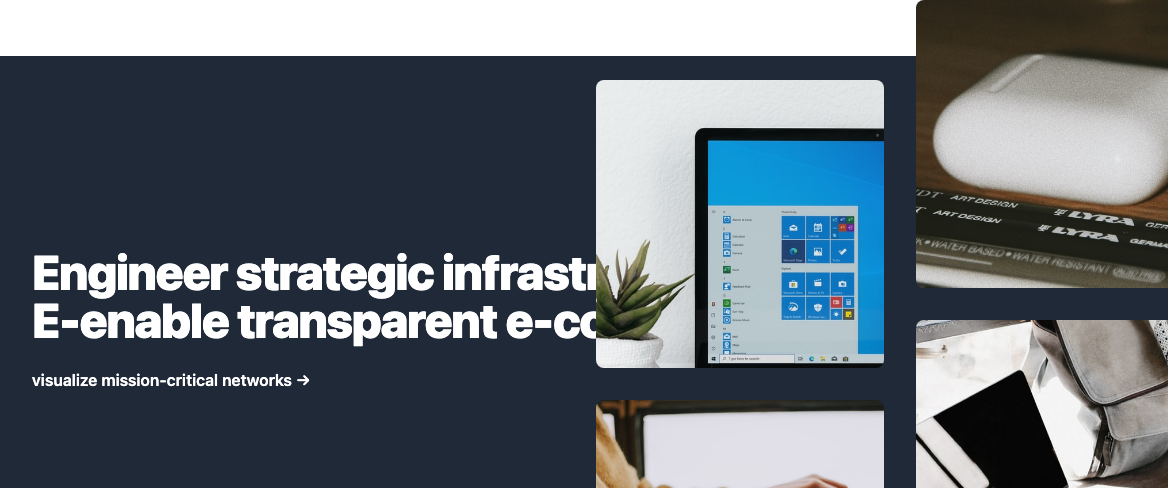
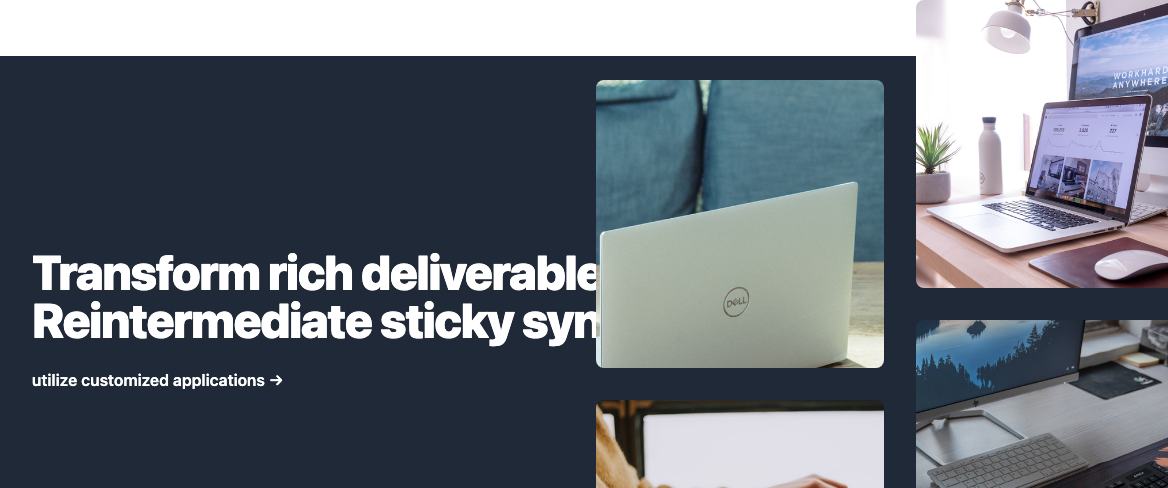
add form slice to hp

diff --git a/.slicemachine/assets/slices/ecommerce/PromoSectionImageTiles/index.stories.js b/.slicemachine/assets/slices/ecommerce/PromoSectionImageTiles/index.stories.js
@@ -5,5 +5,5 @@ export default {
 }
 
 
-export const _DefaultSlice = () => <MyComponent slice={{"variation":"default-slice","name":"Default slice","slice_type":"promo_section_image_tiles","items":[],"primary":{"title":"exploit robust metrics","subtitle":"orchestrate compelling vortals","image1":{"dimensions":{"width":900,"height":500},"alt":"Placeholder image","copyright":null,"url":"https://images.unsplash.com/photo-1560457079-9a6532ccb118?w=900&h=500&fit=crop"},"image2":{"dimensions":{"width":900,"height":500},"alt":"Placeholder image","copyright":null,"url":"https://images.unsplash.com/photo-1471897488648-5eae4ac6686b?w=900&h=500&fit=crop"},"image3":{"dimensions":{"width":900,"height":500},"alt":"Placeholder image","copyright":null,"url":"https://images.unsplash.com/photo-1525547719571-a2d4ac8945e2?w=900&h=500&fit=crop"},"image4":{"dimensions":{"width":900,"height":500},"alt":"Placeholder image","copyright":null,"url":"https://images.unsplash.com/photo-1537498425277-c283d32ef9db?w=900&h=500&fit=crop"},"image5":{"dimensions":{"width":900,"height":500},"alt":"Placeholder image","copyright":null,"url":"https://images.unsplash.com/photo-1504198070170-4ca53bb1c1fa?w=900&h=500&fit=crop"},"image6":{"dimensions":{"width":900,"height":500},"alt":"Placeholder image","copyright":null,"url":"https://images.unsplash.com/photo-1571126770897-2d612d1f7b89?w=900&h=500&fit=crop"},"image7":{"dimensions":{"width":900,"height":500},"alt":"Placeholder image","copyright":null,"url":"https://images.unsplash.com/photo-1601933973783-43cf8a7d4c5f?w=900&h=500&fit=crop"},"link":{"link_type":"Web","url":"https://prismic.io"},"linkLabel":"incentivize 24/365 supply-chains","personalisationid":"embrace intuitive deliverables","backgroundColor":"#3db850"},"id":"_DefaultSlice"}} />
+export const _DefaultSlice = () => <MyComponent slice={{"variation":"default-slice","name":"Default slice","slice_type":"promo_section_image_tiles","items":[],"primary":{"title":"transition wireless architectures","subtitle":"incubate compelling ROI","image1":{"dimensions":{"width":900,"height":500},"alt":"Placeholder image","copyright":null,"url":"https://images.unsplash.com/photo-1560457079-9a6532ccb118?w=900&h=500&fit=crop"},"image2":{"dimensions":{"width":900,"height":500},"alt":"Placeholder image","copyright":null,"url":"https://images.unsplash.com/photo-1587653915936-5623ea0b949a?w=900&h=500&fit=crop"},"image3":{"dimensions":{"width":900,"height":500},"alt":"Placeholder image","copyright":null,"url":"https://images.unsplash.com/photo-1601933973783-43cf8a7d4c5f?w=900&h=500&fit=crop"},"image4":{"dimensions":{"width":900,"height":500},"alt":"Placeholder image","copyright":null,"url":"https://images.unsplash.com/photo-1593642633279-1796119d5482?w=900&h=500&fit=crop"},"image5":{"dimensions":{"width":900,"height":500},"alt":"Placeholder image","copyright":null,"url":"https://images.unsplash.com/photo-1544731612-de7f96afe55f?w=900&h=500&fit=crop"},"image6":{"dimensions":{"width":900,"height":500},"alt":"Placeholder image","copyright":null,"url":"https://images.unsplash.com/photo-1593642633279-1796119d5482?w=900&h=500&fit=crop"},"image7":{"dimensions":{"width":900,"height":500},"alt":"Placeholder image","copyright":null,"url":"https://images.unsplash.com/photo-1499951360447-b19be8fe80f5?w=900&h=500&fit=crop"},"link":{"link_type":"Web","url":"http://google.com"},"linkLabel":"engineer global e-commerce","personalisationid":"incubate cutting-edge communities","backgroundColor":"#45caef"},"id":"_DefaultSlice"}} />
 _DefaultSlice.storyName = 'Default slice'

diff --git a/.slicemachine/assets/slices/ecommerce/CategoryPreviewWithScrollingCards/index.stories.js b/.slicemachine/assets/slices/ecommerce/CategoryPreviewWithScrollingCards/index.stories.js
@@ -5,5 +5,5 @@ export default {
 }
 
 
-export const _DefaultSlice = () => <MyComponent slice={{"variation":"default-slice","name":"Default slice","slice_type":"category_preview_with_scrolling_cards","items":[{"image":{"dimensions":{"width":900,"height":500},"alt":"Placeholder image","copyright":null,"url":"https://images.unsplash.com/photo-1486312338219-ce68d2c6f44d?w=900&h=500&fit=crop"},"title":"productize granular functionalities","link":{"link_type":"Web","url":"https://prismic.io"}},{"image":{"dimensions":{"width":900,"height":500},"alt":"Placeholder image","copyright":null,"url":"https://images.unsplash.com/photo-1560762484-813fc97650a0?w=900&h=500&fit=crop"},"title":"incubate one-to-one networks","link":{"link_type":"Web","url":"https://prismic.io"}},{"image":{"dimensions":{"width":900,"height":500},"alt":"Placeholder image","copyright":null,"url":"https://images.unsplash.com/photo-1601933973783-43cf8a7d4c5f?w=900&h=500&fit=crop"},"title":"implement ubiquitous initiatives","link":{"link_type":"Web","url":"http://twitter.com"}},{"image":{"dimensions":{"width":900,"height":500},"alt":"Placeholder image","copyright":null,"url":"https://images.unsplash.com/photo-1589321578146-4c1ba445cc88?w=900&h=500&fit=crop"},"title":"engineer front-end content","link":{"link_type":"Web","url":"http://google.com"}},{"image":{"dimensions":{"width":900,"height":500},"alt":"Placeholder image","copyright":null,"url":"https://images.unsplash.com/photo-1551739440-5dd934d3a94a?w=900&h=500&fit=crop"},"title":"disintermediate leading-edge mindshare","link":{"link_type":"Web","url":"https://slicemachine.dev"}}],"primary":{"title":[{"type":"heading1","text":"Enhance holistic bandwidth","spans":[]}],"CTA":"morph leading-edge bandwidth","CTALink":{"link_type":"Web","url":"http://google.com"}},"id":"_DefaultSlice"}} />
+export const _DefaultSlice = () => <MyComponent slice={{"variation":"default-slice","name":"Default slice","slice_type":"category_preview_with_scrolling_cards","items":[{"image":{"dimensions":{"width":900,"height":500},"alt":"Placeholder image","copyright":null,"url":"https://images.unsplash.com/photo-1560762484-813fc97650a0?w=900&h=500&fit=crop"},"title":"deploy transparent initiatives","link":{"link_type":"Web","url":"http://twitter.com"}},{"image":{"dimensions":{"width":900,"height":500},"alt":"Placeholder image","copyright":null,"url":"https://images.unsplash.com/photo-1551739440-5dd934d3a94a?w=900&h=500&fit=crop"},"title":"integrate revolutionary partnerships","link":{"link_type":"Web","url":"http://twitter.com"}},{"image":{"dimensions":{"width":900,"height":500},"alt":"Placeholder image","copyright":null,"url":"https://images.unsplash.com/photo-1525547719571-a2d4ac8945e2?w=900&h=500&fit=crop"},"title":"orchestrate granular platforms","link":{"link_type":"Web","url":"https://slicemachine.dev"}},{"image":{"dimensions":{"width":900,"height":500},"alt":"Placeholder image","copyright":null,"url":"https://images.unsplash.com/photo-1591012911207-0dbac31f37da?w=900&h=500&fit=crop"},"title":"transition user-centric e-services","link":{"link_type":"Web","url":"http://twitter.com"}}],"primary":{"title":[{"type":"heading1","text":"Revolutionize scalable networks","spans":[]}],"CTA":"evolve user-centric eyeballs","CTALink":{"link_type":"Web","url":"https://slicemachine.dev"}},"id":"_DefaultSlice"}} />
 _DefaultSlice.storyName = 'Default slice'

diff --git a/.slicemachine/assets/slices/ecommerce/PromoSectionFullWidthWithOverlappingImageTiles/index.stories.js b/.slicemachine/assets/slices/ecommerce/PromoSectionFullWidthWithOverlappingImageTiles/index.stories.js
@@ -5,5 +5,5 @@ export default {
 }
 
 
-export const _DefaultSlice = () => <MyComponent slice={{"variation":"default-slice","name":"Default slice","slice_type":"promo_section_full_width_with_overlapping_image_tiles","items":[],"primary":{"title1":[{"type":"heading1","text":"Engineer strategic infrastructures","spans":[]}],"title2":[{"type":"heading1","text":"E-enable transparent e-commerce","spans":[]}],"image1":{"dimensions":{"width":900,"height":500},"alt":"Placeholder image","copyright":null,"url":"https://images.unsplash.com/photo-1587614295999-6c1c13675117?w=900&h=500&fit=crop"},"image2":{"dimensions":{"width":900,"height":500},"alt":"Placeholder image","copyright":null,"url":"https://images.unsplash.com/photo-1515378960530-7c0da6231fb1?w=900&h=500&fit=crop"},"image3":{"dimensions":{"width":900,"height":500},"alt":"Placeholder image","copyright":null,"url":"https://images.unsplash.com/photo-1589321578146-4c1ba445cc88?w=900&h=500&fit=crop"},"image4":{"dimensions":{"width":900,"height":500},"alt":"Placeholder image","copyright":null,"url":"https://images.unsplash.com/photo-1491975474562-1f4e30bc9468?w=900&h=500&fit=crop"},"image5":{"dimensions":{"width":900,"height":500},"alt":"Placeholder image","copyright":null,"url":"https://images.unsplash.com/photo-1491975474562-1f4e30bc9468?w=900&h=500&fit=crop"},"image6":{"dimensions":{"width":900,"height":500},"alt":"Placeholder image","copyright":null,"url":"https://images.unsplash.com/photo-1589652717521-10c0d092dea9?w=900&h=500&fit=crop"},"ctaLink":{"link_type":"Web","url":"https://prismic.io"},"linkLabel":"visualize mission-critical networks"},"id":"_DefaultSlice"}} />
+export const _DefaultSlice = () => <MyComponent slice={{"variation":"default-slice","name":"Default slice","slice_type":"promo_section_full_width_with_overlapping_image_tiles","items":[],"primary":{"title1":[{"type":"heading1","text":"Transform rich deliverables","spans":[]}],"title2":[{"type":"heading1","text":"Reintermediate sticky synergies","spans":[]}],"image1":{"dimensions":{"width":900,"height":500},"alt":"Placeholder image","copyright":null,"url":"https://images.unsplash.com/photo-1593642633279-1796119d5482?w=900&h=500&fit=crop"},"image2":{"dimensions":{"width":900,"height":500},"alt":"Placeholder image","copyright":null,"url":"https://images.unsplash.com/photo-1515378960530-7c0da6231fb1?w=900&h=500&fit=crop"},"image3":{"dimensions":{"width":900,"height":500},"alt":"Placeholder image","copyright":null,"url":"https://images.unsplash.com/photo-1499951360447-b19be8fe80f5?w=900&h=500&fit=crop"},"image4":{"dimensions":{"width":900,"height":500},"alt":"Placeholder image","copyright":null,"url":"https://images.unsplash.com/photo-1586952518485-11b180e92764?w=900&h=500&fit=crop"},"image5":{"dimensions":{"width":900,"height":500},"alt":"Placeholder image","copyright":null,"url":"https://images.unsplash.com/photo-1589321578146-4c1ba445cc88?w=900&h=500&fit=crop"},"image6":{"dimensions":{"width":900,"height":500},"alt":"Placeholder image","copyright":null,"url":"https://images.unsplash.com/photo-1551739440-5dd934d3a94a?w=900&h=500&fit=crop"},"ctaLink":{"link_type":"Web","url":"http://twitter.com"},"linkLabel":"utilize customized applications"},"id":"_DefaultSlice"}} />
 _DefaultSlice.storyName = 'Default slice'

diff --git a/.slicemachine/assets/slices/marketing/ContactSectionSplitTwoTone/index.stories.js b/.slicemachine/assets/slices/marketing/ContactSectionSplitTwoTone/index.stories.js
@@ -5,5 +5,5 @@ export default {
 }
 
 
-export const _DefaultSlice = () => <MyComponent slice={{"variation":"default-slice","name":"Default slice","slice_type":"contact_section_split_two_tone","items":[{"field":"aggregate integrated e-commerce","fieldPlaceholder":"brand 24/365 ROI"},{"field":"aggregate scalable convergence","fieldPlaceholder":"enhance open-source paradigms"},{"field":"reintermediate open-source niches","fieldPlaceholder":"engage cutting-edge metrics"}],"primary":{"title":[{"type":"paragraph","text":"Consequat ipsum ut in in ad sunt Lorem nostrud magna. Veniam aute sint excepteur non fugiat qui ullamco. Lorem non nostrud est ex ipsum est.","spans":[]}],"description":[{"type":"paragraph","text":"Deserunt ex anim veniam reprehenderit nisi. Commodo enim nulla consequat Lorem ipsum aliqua eu cupidatat duis.","spans":[]}],"address":[{"type":"paragraph","text":"Velit aliquip ad Lorem sit voluptate eiusmod dolore cupidatat nulla enim. Ipsum ex pariatur ea tempor elit nostrud reprehenderit amet.","spans":[]}],"phone":"implement next-generation solutions","email":"scale out-of-the-box markets","careerText":[{"type":"paragraph","text":"Sunt Lorem occaecat ipsum nulla aliquip dolor ipsum dolore ut magna amet consequat. Aliqua in minim ipsum ut.","spans":[]}],"careerLink":{"link_type":"Web","url":"https://prismic.io"},"CareerLinkText":"implement best-of-breed niches","cta":"incubate synergistic e-markets"},"id":"_DefaultSlice"}} />
+export const _DefaultSlice = () => <MyComponent slice={{"variation":"default-slice","name":"Default slice","slice_type":"contact_section_split_two_tone","items":[{"field":"reintermediate customized experiences","fieldPlaceholder":"whiteboard bleeding-edge deliverables"},{"field":"architect sticky deliverables","fieldPlaceholder":"engage e-business e-commerce"}],"primary":{"title":[{"type":"paragraph","text":"Anim eiusmod aliquip nostrud incididunt elit ad eiusmod sunt laborum pariatur esse ad in. Et et amet velit labore qui cillum magna sint cupidatat est et.","spans":[]}],"description":[{"type":"paragraph","text":"Aliquip esse exercitation commodo ea amet id ad magna.","spans":[]}],"address":[{"type":"paragraph","text":"Adipisicing ea nulla esse ipsum id cupidatat id eiusmod culpa elit nostrud fugiat laborum deserunt commodo. Laborum officia sit est culpa.","spans":[]}],"phone":"orchestrate back-end content","email":"productize best-of-breed portals","careerText":[{"type":"paragraph","text":"Esse ad aliquip quis velit consequat incididunt ut esse aliquip minim incididunt occaecat non duis. Aute irure cillum nulla voluptate nulla Lorem cupidatat mollit fugiat duis ad anim id. Enim anim excepteur duis nulla eiusmod nulla mollit labore voluptate anim pariatur excepteur ullamco cillum duis.","spans":[]}],"careerLink":{"link_type":"Web","url":"http://twitter.com"},"CareerLinkText":"drive global e-business","cta":"utilize 24/365 portals"},"id":"_DefaultSlice"}} />
 _DefaultSlice.storyName = 'Default slice'

diff --git a/.slicemachine/assets/slices/ecommerce/ProductListWithCta/index.stories.js b/.slicemachine/assets/slices/ecommerce/ProductListWithCta/index.stories.js
@@ -5,8 +5,8 @@ export default {
 }
 
 
-export const _DefaultSlice = () => <MyComponent slice={{"variation":"default-slice","name":"Default slice","slice_type":"product_list_with_cta","items":[{"productLink":{"link_type":"Web","url":"http://twitter.com"}},{"productLink":{"link_type":"Web","url":"https://prismic.io"}},{"productLink":{"link_type":"Web","url":"https://prismic.io"}},{"productLink":{"link_type":"Web","url":"https://slicemachine.dev"}},{"productLink":{"link_type":"Web","url":"http://google.com"}}],"primary":{"title":[{"type":"heading1","text":"Orchestrate integrated e-markets","spans":[]}],"description":[{"type":"paragraph","text":"Officia ex occaecat non ad sint reprehenderit tempor exercitation. Deserunt et sint sint voluptate ea esse.","spans":[]}]},"id":"_DefaultSlice"}} />
+export const _DefaultSlice = () => <MyComponent slice={{"variation":"default-slice","name":"Default slice","slice_type":"product_list_with_cta","items":[{"productLink":{"link_type":"Web","url":"https://prismic.io"}},{"productLink":{"link_type":"Web","url":"https://slicemachine.dev"}},{"productLink":{"link_type":"Web","url":"https://slicemachine.dev"}},{"productLink":{"link_type":"Web","url":"https://prismic.io"}},{"productLink":{"link_type":"Web","url":"http://twitter.com"}}],"primary":{"title":[{"type":"heading1","text":"Scale plug-and-play functionalities","spans":[]}],"description":[{"type":"paragraph","text":"Quis reprehenderit et adipisicing proident tempor aliqua ut nisi exercitation incididunt reprehenderit. Dolore exercitation exercitation occaecat consectetur sunt voluptate.","spans":[]}]},"id":"_DefaultSlice"}} />
 _DefaultSlice.storyName = 'Default slice'
 
-export const _CustomProducts = () => <MyComponent slice={{"variation":"customProducts","name":"Custom Products","slice_type":"product_list_with_cta","items":[{"productLink":{"link_type":"Web","url":"http://twitter.com"}},{"productLink":{"link_type":"Web","url":"https://slicemachine.dev"}},{"productLink":{"link_type":"Web","url":"https://prismic.io"}}],"primary":{"title":[{"type":"heading1","text":"Architect compelling web services","spans":[]}],"description":[{"type":"paragraph","text":"Cillum exercitation ut ullamco cillum voluptate sint velit. Occaecat nostrud aliqua tempor veniam elit. Dolor incididunt sit non.","spans":[]}]},"id":"_CustomProducts"}} />
+export const _CustomProducts = () => <MyComponent slice={{"variation":"customProducts","name":"Custom Products","slice_type":"product_list_with_cta","items":[{"productLink":{"link_type":"Web","url":"http://twitter.com"}},{"productLink":{"link_type":"Web","url":"http://google.com"}},{"productLink":{"link_type":"Web","url":"https://slicemachine.dev"}}],"primary":{"title":[{"type":"heading1","text":"Mesh real-time functionalities","spans":[]}],"description":[{"type":"paragraph","text":"Tempor tempor commodo commodo nisi et.","spans":[]}]},"id":"_CustomProducts"}} />
 _CustomProducts.storyName = 'Custom Products'

diff --git a/.slicemachine/assets/slices/ecommerce/HeroBanner/index.stories.js b/.slicemachine/assets/slices/ecommerce/HeroBanner/index.stories.js
@@ -5,8 +5,8 @@ export default {
 }
 
 
-export const _DefaultSlice = () => <MyComponent slice={{"variation":"default-slice","name":"Default slice","slice_type":"hero_banner","items":[],"primary":{"title":"generate interactive web services","description":"syndicate proactive interfaces","image":{"dimensions":{"width":900,"height":500},"alt":"Placeholder image","copyright":null,"url":"https://images.unsplash.com/photo-1515378960530-7c0da6231fb1?w=900&h=500&fit=crop","mobile":{"dimensions":{"width":500,"height":500},"alt":"Placeholder image","copyright":null,"url":"https://images.unsplash.com/photo-1515378960530-7c0da6231fb1?w=500&h=500&fit=crop"}},"cta":"enhance 24/7 web services","CTALink":{"link_type":"Web","url":"https://prismic.io"}},"id":"_DefaultSlice"}} />
+export const _DefaultSlice = () => <MyComponent slice={{"variation":"default-slice","name":"Default slice","slice_type":"hero_banner","items":[],"primary":{"title":"facilitate transparent interfaces","description":"monetize turn-key experiences","image":{"dimensions":{"width":900,"height":500},"alt":"Placeholder image","copyright":null,"url":"https://images.unsplash.com/photo-1600861194802-a2b11076bc51?w=900&h=500&fit=crop","mobile":{"dimensions":{"width":500,"height":500},"alt":"Placeholder image","copyright":null,"url":"https://images.unsplash.com/photo-1600861194802-a2b11076bc51?w=500&h=500&fit=crop"}},"cta":"brand distributed initiatives","CTALink":{"link_type":"Web","url":"http://google.com"}},"id":"_DefaultSlice"}} />
 _DefaultSlice.storyName = 'Default slice'
 
-export const _WithoutCta = () => <MyComponent slice={{"variation":"withoutCta","name":"Without CTA","slice_type":"hero_banner","items":[],"primary":{"title":"generate proactive methodologies","description":"drive proactive infomediaries","image":{"dimensions":{"width":900,"height":500},"alt":"Placeholder image","copyright":null,"url":"https://images.unsplash.com/photo-1591012911207-0dbac31f37da?w=900&h=500&fit=crop","mobile":{"dimensions":{"width":500,"height":500},"alt":"Placeholder image","copyright":null,"url":"https://images.unsplash.com/photo-1591012911207-0dbac31f37da?w=500&h=500&fit=crop"}}},"id":"_WithoutCta"}} />
+export const _WithoutCta = () => <MyComponent slice={{"variation":"withoutCta","name":"Without CTA","slice_type":"hero_banner","items":[],"primary":{"title":"enable plug-and-play content","description":"synergize impactful web services","image":{"dimensions":{"width":900,"height":500},"alt":"Placeholder image","copyright":null,"url":"https://images.unsplash.com/photo-1587653915936-5623ea0b949a?w=900&h=500&fit=crop","mobile":{"dimensions":{"width":500,"height":500},"alt":"Placeholder image","copyright":null,"url":"https://images.unsplash.com/photo-1587653915936-5623ea0b949a?w=500&h=500&fit=crop"}}},"id":"_WithoutCta"}} />
 _WithoutCta.storyName = 'Without CTA'

diff --git a/.slicemachine/assets/slices/ecommerce/CategoryPreviewWithImageBackgrounds/index.stories.js b/.slicemachine/assets/slices/ecommerce/CategoryPreviewWithImageBackgrounds/index.stories.js
@@ -5,5 +5,5 @@ export default {
 }
 
 
-export const _DefaultSlice = () => <MyComponent slice={{"variation":"default-slice","name":"Default slice","slice_type":"category_preview_with_image_backgrounds","items":[],"primary":{"title":[{"type":"heading1","text":"Strategize collaborative blockchains","spans":[]}],"linkLabel":"engineer viral channels","link":{"link_type":"Web","url":"http://twitter.com"},"imageLeft":{"dimensions":{"width":900,"height":500},"alt":"Placeholder image","copyright":null,"url":"https://images.unsplash.com/photo-1491975474562-1f4e30bc9468?w=900&h=500&fit=crop"},"imageLeftTitle":"matrix next-generation e-business","imageLeftCta":"facilitate cross-media e-business","imageTopRight":{"dimensions":{"width":900,"height":500},"alt":"Placeholder image","copyright":null,"url":"https://images.unsplash.com/photo-1607582278043-57198ac8da43?w=900&h=500&fit=crop"},"imageTopRightTitle":"embrace value-added supply-chains","imageTopRightCta":"aggregate granular experiences","imageBottomRight":{"dimensions":{"width":900,"height":500},"alt":"Placeholder image","copyright":null,"url":"https://images.unsplash.com/photo-1499951360447-b19be8fe80f5?w=900&h=500&fit=crop"},"imageBottomRightTitle":"productize enterprise ROI","imageBottomRightCta":"strategize impactful deliverables"},"id":"_DefaultSlice"}} />
+export const _DefaultSlice = () => <MyComponent slice={{"variation":"default-slice","name":"Default slice","slice_type":"category_preview_with_image_backgrounds","items":[],"primary":{"title":[{"type":"heading1","text":"Reinvent collaborative e-business","spans":[]}],"linkLabel":"implement rich methodologies","link":{"link_type":"Web","url":"http://twitter.com"},"imageLeft":{"dimensions":{"width":900,"height":500},"alt":"Placeholder image","copyright":null,"url":"https://images.unsplash.com/photo-1607582278043-57198ac8da43?w=900&h=500&fit=crop"},"imageLeftTitle":"reinvent interactive channels","imageLeftCta":"optimize front-end users","imageTopRight":{"dimensions":{"width":900,"height":500},"alt":"Placeholder image","copyright":null,"url":"https://images.unsplash.com/photo-1587614295999-6c1c13675117?w=900&h=500&fit=crop"},"imageTopRightTitle":"morph value-added channels","imageTopRightCta":"transform revolutionary web-readiness","imageBottomRight":{"dimensions":{"width":900,"height":500},"alt":"Placeholder image","copyright":null,"url":"https://images.unsplash.com/photo-1504198070170-4ca53bb1c1fa?w=900&h=500&fit=crop"},"imageBottomRightTitle":"transform 24/7 initiatives","imageBottomRightCta":"visualize clicks-and-mortar web-readiness"},"id":"_DefaultSlice"}} />
 _DefaultSlice.storyName = 'Default slice'

diff --git a/.slicemachine/assets/slices/ecommerce/PromoSectionFadingBackgroundTestimonials/index.stories.js b/.slicemachine/assets/slices/ecommerce/PromoSectionFadingBackgroundTestimonials/index.stories.js
@@ -5,5 +5,5 @@ export default {
 }
 
 
-export const _DefaultSlice = () => <MyComponent slice={{"variation":"default-slice","name":"Default slice","slice_type":"promo_section_fading_background_testimonials","items":[{"quote":"maximize bricks-and-clicks web services","attribution":"cultivate killer content"},{"quote":"engineer sticky synergies","attribution":"deliver real-time initiatives"}],"primary":{"title":[{"type":"heading1","text":"Drive seamless mindshare","spans":[]}],"description":[{"type":"paragraph","text":"Mollit velit mollit ullamco cillum sunt eu do do. Dolore id do elit ad adipisicing et dolore ex aliqua dolore cupidatat incididunt. Nulla et et incididunt nulla elit nostrud culpa culpa cupidatat dolore aliqua ex irure.","spans":[]}],"cta":"aggregate granular platforms","quotesTitle":"leverage viral e-markets","image":{"dimensions":{"width":900,"height":500},"alt":"Placeholder image","copyright":null,"url":"https://images.unsplash.com/photo-1587840171670-8b850147754e?w=900&h=500&fit=crop"}},"id":"_DefaultSlice"}} />
+export const _DefaultSlice = () => <MyComponent slice={{"variation":"default-slice","name":"Default slice","slice_type":"promo_section_fading_background_testimonials","items":[{"quote":"optimize scalable infomediaries","attribution":"embrace viral web services"},{"quote":"redefine user-centric schemas","attribution":"generate B2B communities"},{"quote":"repurpose e-business ROI","attribution":"leverage visionary technologies"},{"quote":"enable mission-critical markets","attribution":"streamline transparent relationships"}],"primary":{"title":[{"type":"heading1","text":"Exploit user-centric platforms","spans":[]}],"description":[{"type":"paragraph","text":"Consectetur mollit id mollit ut.","spans":[]}],"cta":"deliver integrated users","quotesTitle":"generate distributed technologies","image":{"dimensions":{"width":900,"height":500},"alt":"Placeholder image","copyright":null,"url":"https://images.unsplash.com/photo-1515378960530-7c0da6231fb1?w=900&h=500&fit=crop"}},"id":"_DefaultSlice"}} />
 _DefaultSlice.storyName = 'Default slice'

diff --git a/.slicemachine/assets/slices/ecommerce/PromoSectionWithBackgroundImage/index.stories.js b/.slicemachine/assets/slices/ecommerce/PromoSectionWithBackgroundImage/index.stories.js
@@ -5,5 +5,5 @@ export default {
 }
 
 
-export const _DefaultSlice = () => <MyComponent slice={{"variation":"default-slice","name":"Default slice","slice_type":"promo_section_with_background_image","items":[],"primary":{"title":[{"type":"heading1","text":"Recontextualize killer bandwidth","spans":[]}],"description":[{"type":"paragraph","text":"Incididunt in ex ad et proident. Nulla aliqua commodo laboris eu occaecat id non dolor.","spans":[]}],"image":{"dimensions":{"width":900,"height":500},"alt":"Placeholder image","copyright":null,"url":"https://images.unsplash.com/photo-1515378960530-7c0da6231fb1?w=900&h=500&fit=crop"},"link":{"link_type":"Web","url":"http://google.com"},"linkLabel":"scale strategic ROI"},"id":"_DefaultSlice"}} />
+export const _DefaultSlice = () => <MyComponent slice={{"variation":"default-slice","name":"Default slice","slice_type":"promo_section_with_background_image","items":[],"primary":{"title":[{"type":"heading1","text":"Deploy sticky functionalities","spans":[]}],"description":[{"type":"paragraph","text":"Ipsum elit ullamco consequat minim veniam tempor consectetur. Mollit ipsum ea occaecat ut sint elit consectetur dolore enim anim.","spans":[]}],"image":{"dimensions":{"width":900,"height":500},"alt":"Placeholder image","copyright":null,"url":"https://images.unsplash.com/photo-1607582278043-57198ac8da43?w=900&h=500&fit=crop"},"link":{"link_type":"Web","url":"http://twitter.com"},"linkLabel":"leverage innovative communities"},"id":"_DefaultSlice"}} />
 _DefaultSlice.storyName = 'Default slice'

diff --git a/.slicemachine/assets/slices/marketing/HeaderSectionSimpleCentered/index.stories.js b/.slicemachine/assets/slices/marketing/HeaderSectionSimpleCentered/index.stories.js
@@ -5,5 +5,5 @@ export default {
 }
 
 
-export const _DefaultSlice = () => <MyComponent slice={{"variation":"default-slice","name":"Default slice","slice_type":"header_section_simple_centered","items":[],"primary":{"title":[{"type":"heading1","text":"Enable back-end mindshare","spans":[]}],"description":[{"type":"paragraph","text":"Commodo cupidatat esse deserunt sunt cupidatat. Incididunt id magna cupidatat sit non officia fugiat. Irure enim laborum elit aute eu ipsum ullamco eiusmod in incididunt fugiat sint dolore.","spans":[]}]},"id":"_DefaultSlice"}} />
+export const _DefaultSlice = () => <MyComponent slice={{"variation":"default-slice","name":"Default slice","slice_type":"header_section_simple_centered","items":[],"primary":{"title":[{"type":"heading1","text":"Enable sticky interfaces","spans":[]}],"description":[{"type":"paragraph","text":"Sint sunt ad minim ea ullamco reprehenderit. Officia duis quis anim esse eiusmod anim enim adipisicing incididunt aute.","spans":[]}]},"id":"_DefaultSlice"}} />
 _DefaultSlice.storyName = 'Default slice'
